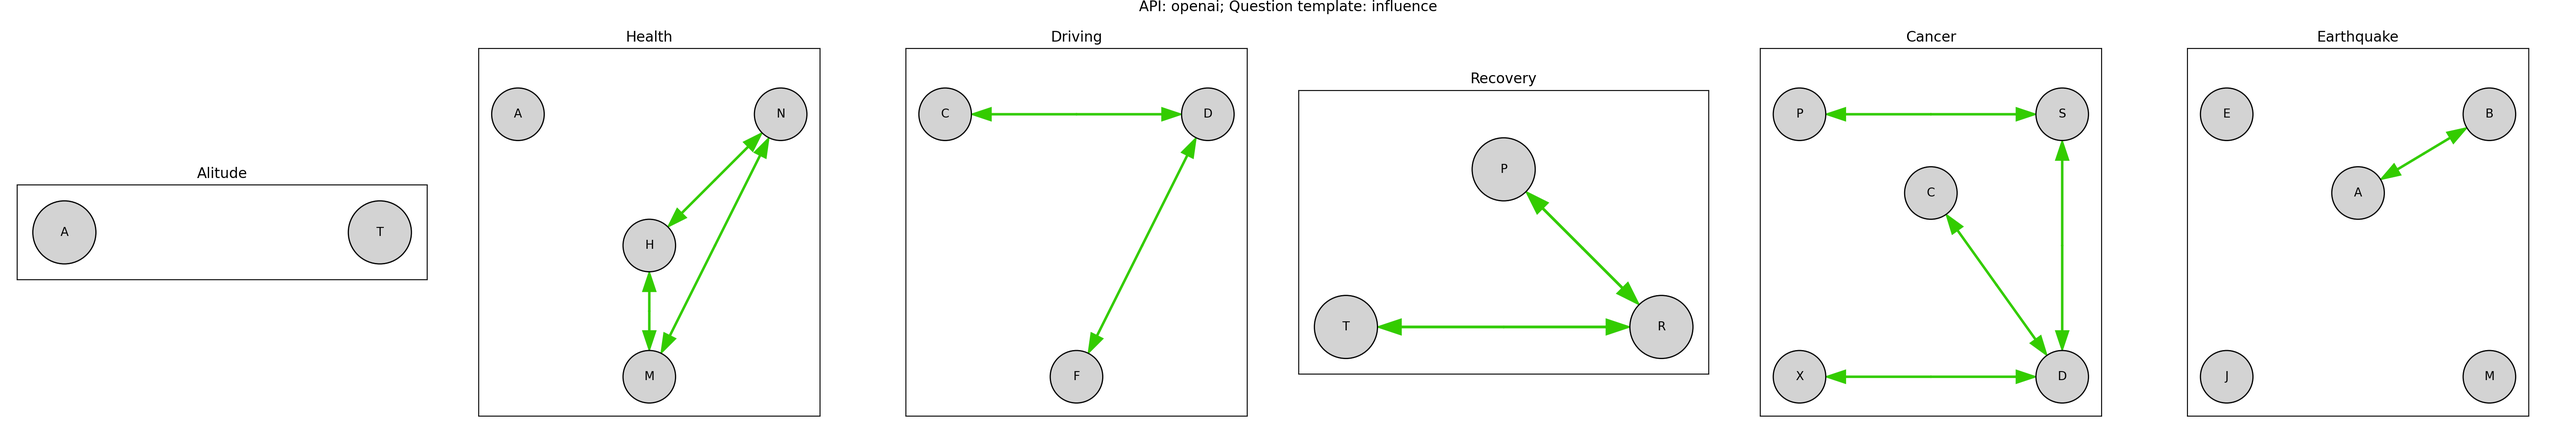
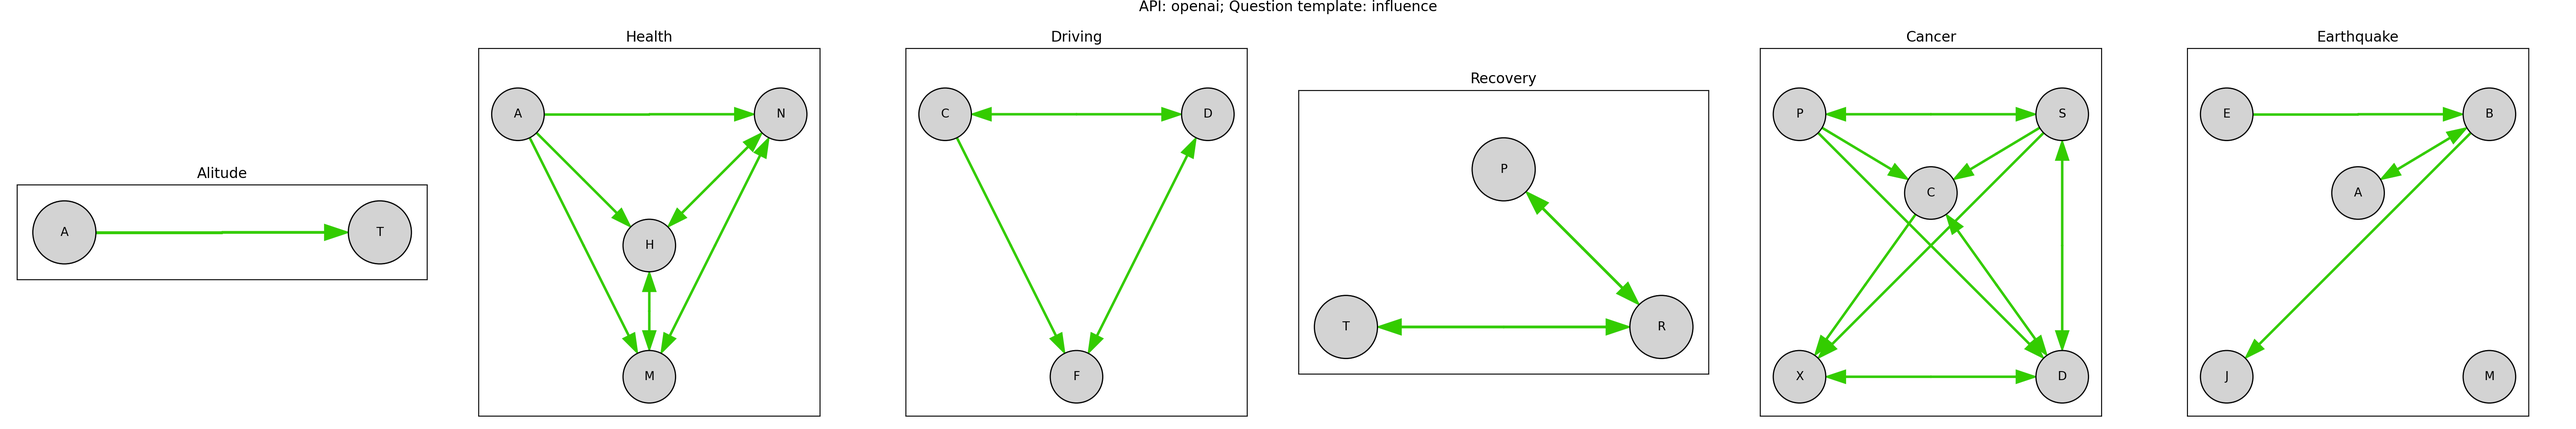
fixed edged plotting

diff --git a/plot.py b/plot.py
@@ -93,7 +93,7 @@ def draw_edge(p0, p1, f01, f10, pad, active_color=(0.2, 0.8, 0.0), alt_color=(0.
         #1=edge, 0=no edge, -1=unknown
         a01 = f01 == 1
         a10 = f10 == 1
-        has_connection = a01 and a10
+        has_connection = a01 or a10
         if not has_connection:
             return
         r_color01 = active_color
@@ -101,7 +101,7 @@ def draw_edge(p0, p1, f01, f10, pad, active_color=(0.2, 0.8, 0.0), alt_color=(0.
     elif mode == "strength":
         a01 = f01 != 0
         a10 = f10 != 0
-        has_connection = a01 and a10
+        has_connection = a01 or a10
         if not has_connection:
             return
         c0, c1, c2 = active_color
@@ -110,6 +110,9 @@ def draw_edge(p0, p1, f01, f10, pad, active_color=(0.2, 0.8, 0.0), alt_color=(0.
         r_color10 = (lerp(b0, c0, f10), lerp(b1, c1, f10), lerp(b2, c2, f10))
     elif mode == "diverging":
         has_no_connection = np.isnan(f01) or np.isnan(f10)
+        # handle case where only one edge exists
+        assert np.isnan(f01) != np.isnan(f10)
+
         if has_no_connection:
             return
         a01 = True
